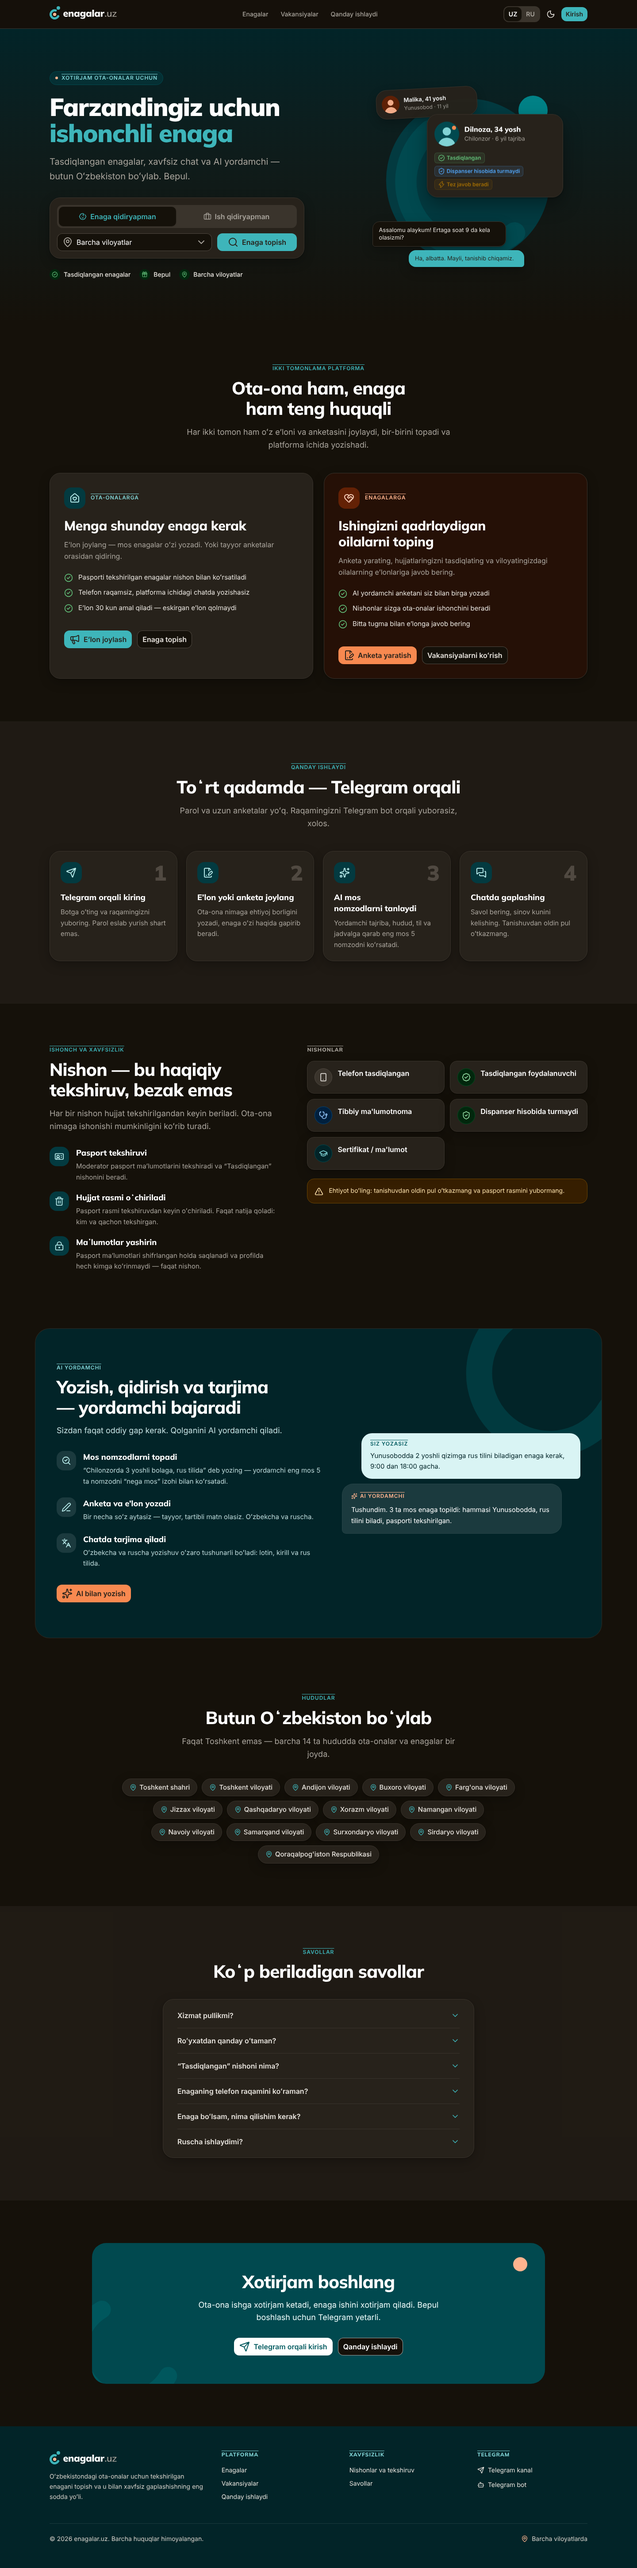
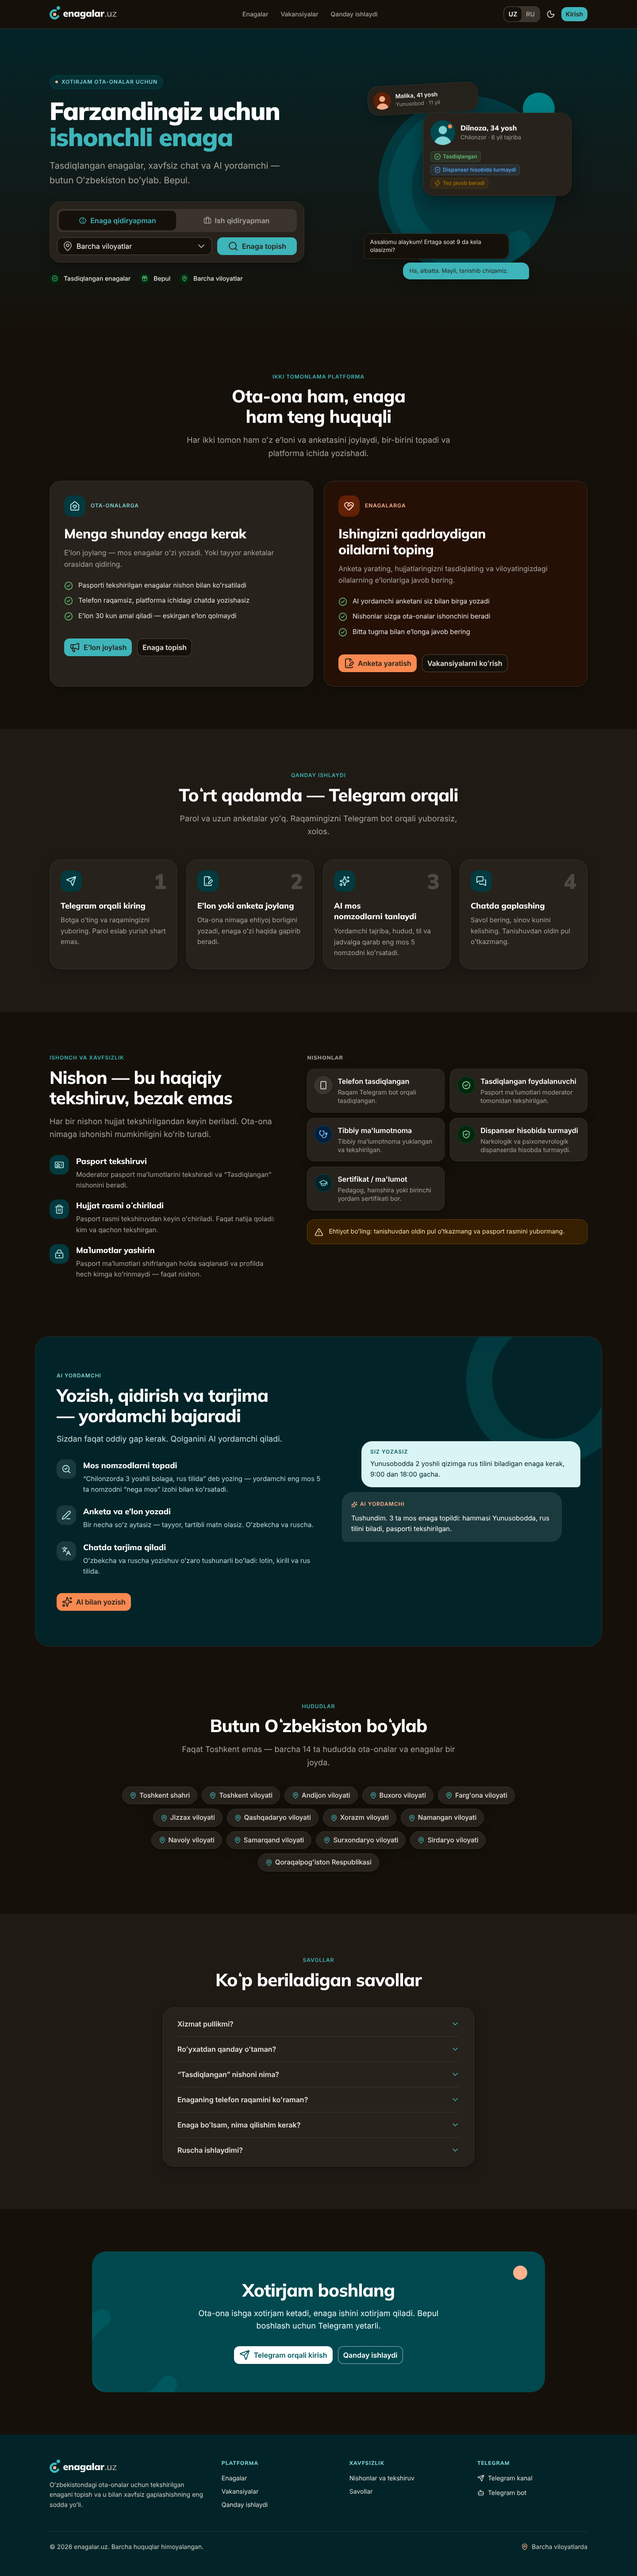
Brendlangan bosh sahifa, Telegram orqali kirish va rol tanlash sahifalari
- Brend ranglari, Mulish + Inter shriftlari (kirill-ext bilan), favicon, OG rasm
- Bosh sahifa: hero va ikki tomonlama qidiruv, ota-ona va enaga bo'limlari,
  4 qadam, nishonlar va xavfsizlik, AI yordamchi, viloyatlar, FAQ
- /kirish (Telegram bot orqali, polling), /boshlash (rol), /kabinet
- Qorong'i rejim, mobil menyu, UZ/RU
- Skrinshotlar: docs/design/screenshots

Claude-Session: https://claude.ai/code/session_01PsveRZYfVvZYRSvfLULni4

diff --git a/frontend/app/components/home/Hero.vue b/frontend/app/components/home/Hero.vue
@@ -44,7 +44,7 @@ function search() {
 
         <h1 class="display-title mt-5 text-highlighted">
           {{ t('home.hero.title1') }}
-          <span class="text-primary">{{ t('home.hero.title2') }}</span>
+          <span class="block text-primary">{{ t('home.hero.title2') }}</span>
         </h1>
         <p class="mt-5 max-w-xl text-lg leading-relaxed text-muted sm:text-xl">
           {{ t('home.hero.subtitle') }}
@@ -62,7 +62,7 @@ function search() {
               @click="mode = tab.value"
             >
               <UIcon :name="tab.icon" class="size-4.5 shrink-0" aria-hidden="true" />
-              <span>{{ tab.label }}</span>
+              <span class="whitespace-nowrap">{{ tab.label }}</span>
             </button>
           </div>
 

diff --git a/frontend/app/components/home/HeroVisual.vue b/frontend/app/components/home/HeroVisual.vue
@@ -4,7 +4,7 @@ const { t } = useI18n()
 
 <template>
   <div
-    class="relative mx-auto aspect-[1/1.02] w-full max-w-[480px] select-none lg:ml-auto"
+    class="relative mx-auto aspect-[1/1.2] sm:aspect-[1/1.02] w-full max-w-[480px] select-none lg:ml-auto"
     role="img"
     :aria-label="t('home.hero.visual.alt')"
   >
